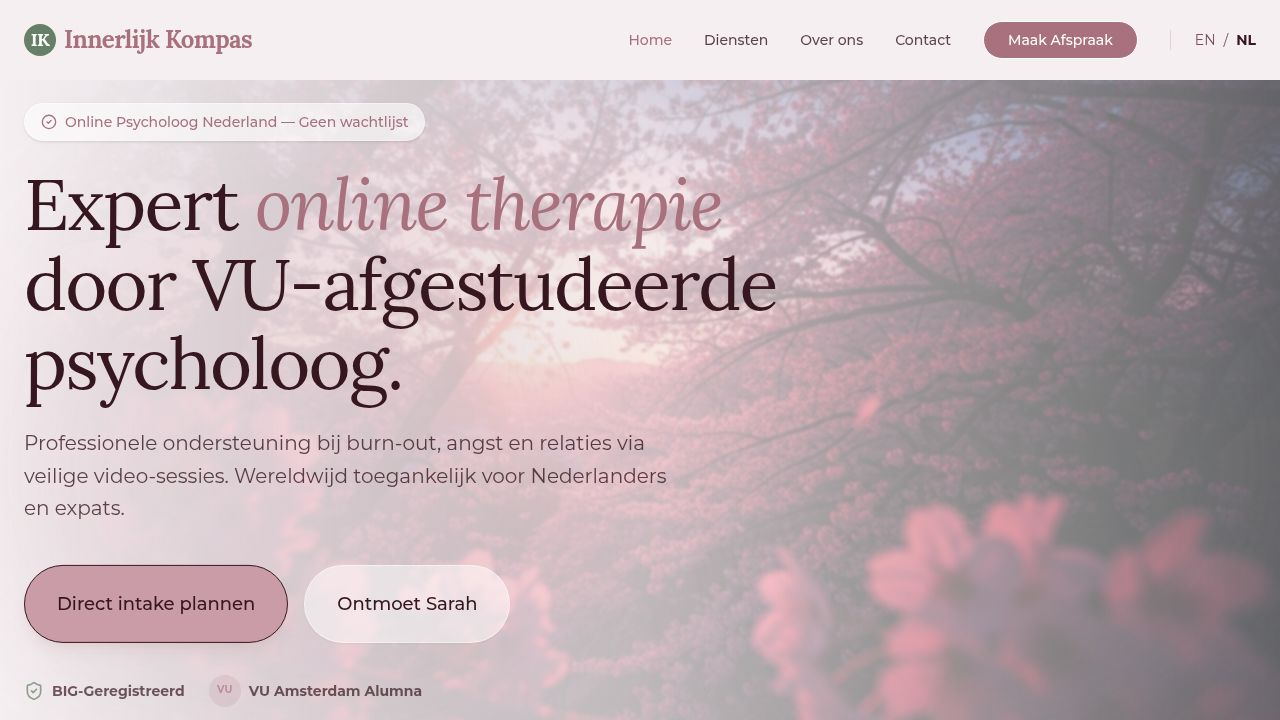
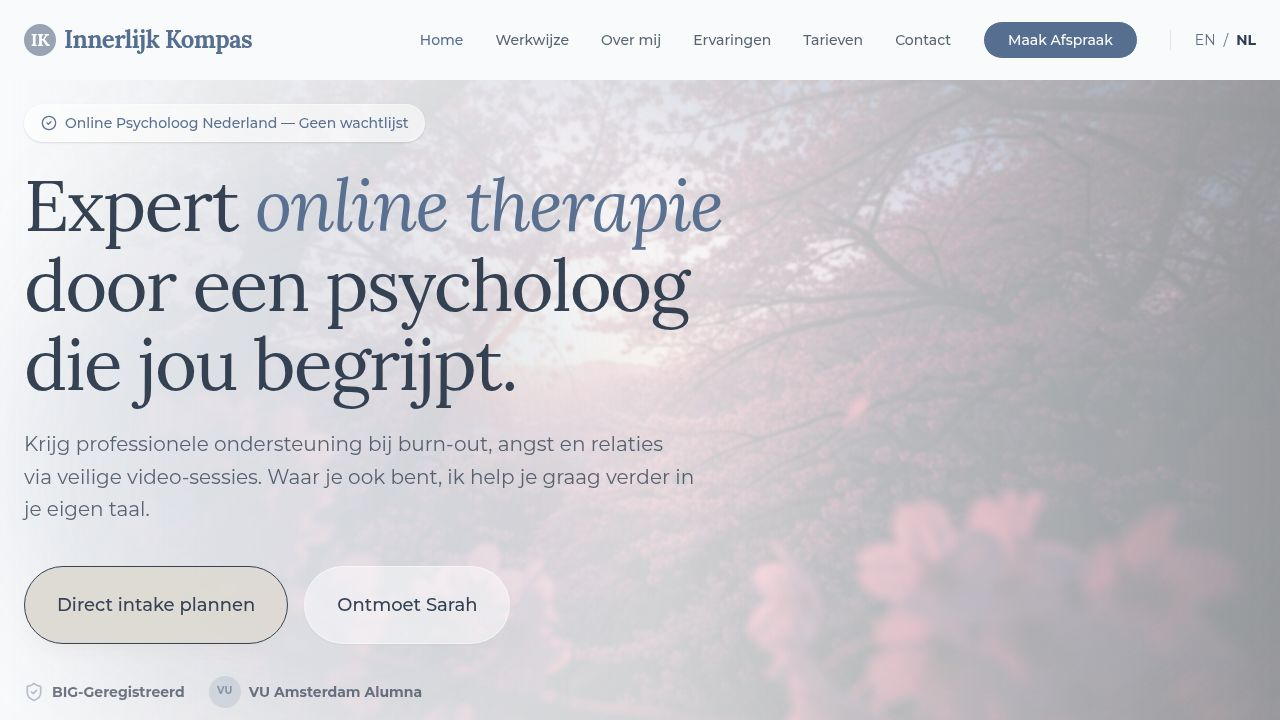
Update website navigation and content structure
Replaces "Diensten" with "Werkwijze", integrates "Behandelmethoden" into the "Werkwijze" page, removes the separate "Behandelmethoden" menu item, and adds an "Ervaringen" page and menu item. The `Services` page is renamed to `Werktwijze` and its content is updated to reflect specific treatment methods. A new `Ervaringen` page component is created.

Replit-Commit-Author: Agent
Replit-Commit-Session-Id: faa6e76d-c377-4d5e-8422-a90f273de80a
Replit-Commit-Checkpoint-Type: full_checkpoint
Replit-Commit-Event-Id: 9209bf33-c19f-461c-86fe-f098c351f38d
Replit-Commit-Screenshot-Url: https://storage.googleapis.com/screenshot-production-us-central1/56fe691a-5790-4641-a8d3-dc1aac0e7075/faa6e76d-c377-4d5e-8422-a90f273de80a/1ICLVRj
Replit-Helium-Checkpoint-Created: true

diff --git a/client/src/pages/services.tsx b/client/src/pages/services.tsx
@@ -7,28 +7,28 @@ import { ArrowRight, CheckCircle2 } from "lucide-react";
 export default function Services() {
   const services = [
     {
-      id: "individual",
-      title: "Individuele Therapie",
-      description: "Gepersonaliseerde één-op-één sessies afgestemd op jouw specifieke doelen. We maken gebruik van evidence-based behandelingen zoals Cognitieve Gedragstherapie (CGT), EMDR voor trauma en Schematherapie.",
-      areas: ["Angst & Paniek", "Depressie & Somberheid", "Burn-out & Stress", "Trauma & PTSS", "Zelfbeeld problematiek"],
+      id: "trauma",
+      title: "Traumabehandeling",
+      description: "Samen werken we aan het verwerken van schokkende gebeurtenissen die jouw leven nu nog beïnvloeden. Ik maak gebruik van krachtige methoden zoals EMDR, Imaginaire Exposure (IE) en Narrative Exposure Therapy (NET).",
+      areas: ["EMDR", "Imaginaire Exposure", "NET", "Vroegkinderlijk trauma", "PTSS"],
     },
     {
-      id: "expat",
-      title: "Ondersteuning voor Expats",
-      description: "Verhuizen naar een nieuw land brengt unieke uitdagingen met zich mee. Mijn gespecialiseerde expat-begeleiding helpt je bij het navigeren door de complexiteit van jouw internationale leven.",
-      areas: ["Culturele aanpassing", "Heimwee & Isolatier", "Carrière-overgangen", "Identiteitsproblematiek", "Navigeren Nederlandse zorgsysteem"],
+      id: "cgt",
+      title: "Cognitieve Gedragstherapie (CGT)",
+      description: "We onderzoeken hoe jouw gedachten jouw gevoelens en gedrag beïnvloeden. Door patronen te herkennen en te doorbreken, krijg jij weer regie over jouw leven.",
+      areas: ["Angst & Paniek", "Depressie", "Negatief zelfbeeld", "Dwangklachten"],
     },
     {
-      id: "online",
-      title: "Online Therapie",
-      description: "Hoogwaardige psychologische zorg vanuit het comfort van jouw eigen huis. Ideaal als je een druk leven hebt, vaak reist of de voorkeur geeft aan je eigen vertrouwde omgeving.",
-      areas: ["Beveiligde videobelverbinding", "Flexibele planning", "Zorg continueren tijdens reizen", "Overal in NL bereikbaar"],
+      id: "schematherapie",
+      title: "Schematherapie",
+      description: "Soms zitten patronen diep geworteld in jouw verleden. Met schematherapie help ik je deze patronen te begrijpen en te veranderen, zodat je gezondere keuzes voor jezelf kunt maken.",
+      areas: ["Hardnekkige patronen", "Persoonlijkheidsproblematiek", "Terugkerende relatieproblemen"],
     },
     {
-      id: "couples",
-      title: "Relatietherapie",
-      description: "Counseling voor koppels die hun communicatie willen verbeteren, vertrouwen willen herstellen of samen door moeilijke levensfasen willen navigeren.",
-      areas: ["Communicatieproblemen", "Intimiteitsvraagstukken", "Cross-culturele relaties", "Conflictbeheersing"],
+      id: "act-eft",
+      title: "ACT & EFT",
+      description: "Met ACT leer je omgaan met moeilijke emoties, terwijl EFT gericht is op het herstellen van verbinding en emotionele veiligheid binnen jouw relatie.",
+      areas: ["Acceptatie", "Mindfulness", "Relatieverbinding", "Emotieregulatie"],
     }
   ];
 
@@ -44,9 +44,9 @@ export default function Services() {
             transition={{ duration: 0.8, ease: "easeOut" }}
             className="max-w-3xl"
           >
-            <h1 className="text-5xl md:text-6xl font-serif text-foreground mb-6 leading-tight">Onze Diensten</h1>
+            <h1 className="text-5xl md:text-6xl font-serif text-foreground mb-6 leading-tight">Mijn Werkwijze</h1>
             <p className="text-xl text-foreground/80 leading-relaxed">
-              Wij bieden evidence-based psychologische behandelingen in een warme, uitnodigende omgeving. Vind de ondersteuning die bij jouw traject past.
+              Ik bied evidence-based behandelingen in een warme omgeving. Samen kijken we welke methode het beste bij jou en jouw hulpvraag past.
             </p>
           </motion.div>
         </div>

diff --git a/client/src/pages/ervaringen.tsx b/client/src/pages/ervaringen.tsx
@@ -1,0 +1,35 @@
+import { motion } from "framer-motion";
+import { Star, Quote } from "lucide-react";
+
+export default function Ervaringen() {
+  const reviews = [
+    { name: "Anoniem", text: "Sarah heeft me enorm geholpen bij mijn burn-out. Haar aanpak is warm en professioneel.", rating: 5 },
+    { name: "M. van Dijk", text: "De online EMDR sessies waren een doorbraak voor mijn traumaverwerking. Heel dankbaar.", rating: 5 },
+    { name: "Expats in NL", text: "Fijn om in mijn eigen taal over complexe gevoelens te kunnen praten. Een aanrader voor iedere expat.", rating: 5 }
+  ];
+
+  return (
+    <div className="pt-24 pb-20 min-h-screen bg-background text-foreground">
+      <div className="container mx-auto px-6">
+        <motion.div initial={{ opacity: 0, y: 20 }} animate={{ opacity: 1, y: 0 }} className="max-w-3xl mx-auto text-center mb-16">
+          <h1 className="text-4xl md:text-5xl font-serif mb-6 italic">Ervaringen</h1>
+          <p className="text-xl text-muted-foreground leading-relaxed">
+            Wat anderen zeggen over hun traject bij Innerlijk Kompas.
+          </p>
+        </motion.div>
+        <div className="grid grid-cols-1 md:grid-cols-2 lg:grid-cols-3 gap-8 max-w-6xl mx-auto">
+          {reviews.map((r, i) => (
+            <motion.div key={i} initial={{ opacity: 0, scale: 0.95 }} whileInView={{ opacity: 1, scale: 1 }} viewport={{ once: true }} transition={{ delay: i * 0.1 }} className="p-8 rounded-[2rem] border bg-card/50 glass-card relative">
+              <Quote className="absolute top-6 right-8 text-primary/10" size={48} />
+              <div className="flex gap-1 mb-4">
+                {[...Array(r.rating)].map((_, i) => <Star key={i} size={16} className="fill-primary text-primary" />)}
+              </div>
+              <p className="text-lg italic mb-6 text-foreground/80 leading-relaxed">"{r.text}"</p>
+              <p className="font-bold text-foreground">— {r.name}</p>
+            </motion.div>
+          ))}
+        </div>
+      </div>
+    </div>
+  );
+}

diff --git a/client/src/App.tsx b/client/src/App.tsx
@@ -10,8 +10,8 @@ import Navbar from "@/components/layout/navbar";
 import Footer from "@/components/layout/footer";
 import Home from "@/pages/home";
 import Services from "@/pages/services";
-import Behandelmethoden from "@/pages/behandelmethoden";
 import About from "@/pages/about";
+import Ervaringen from "@/pages/ervaringen";
 import Tarieven from "@/pages/tarieven";
 import Contact from "@/pages/contact";
 import LaunchChecklist from "@/pages/launch-checklist";
@@ -23,9 +23,9 @@ function Router() {
       <main className="flex-grow">
         <Switch>
           <Route path="/" component={Home} />
-          <Route path="/services" component={Services} />
-          <Route path="/methoden" component={Behandelmethoden} />
+          <Route path="/werkwijze" component={Services} />
           <Route path="/about" component={About} />
+          <Route path="/ervaringen" component={Ervaringen} />
           <Route path="/tarieven" component={Tarieven} />
           <Route path="/contact" component={Contact} />
           <Route path="/checklist" component={LaunchChecklist} />

diff --git a/client/src/components/layout/navbar.tsx b/client/src/components/layout/navbar.tsx
@@ -19,9 +19,9 @@ export default function Navbar() {
 
   const navLinks = [
     { href: "/", label: "Home" },
-    { href: "/services", label: "Diensten" },
-    { href: "/methoden", label: "Behandelmethoden" },
+    { href: "/werkwijze", label: "Werkwijze" },
     { href: "/about", label: "Over mij" },
+    { href: "/ervaringen", label: "Ervaringen" },
     { href: "/tarieven", label: "Tarieven" },
     { href: "/contact", label: "Contact" },
   ];
